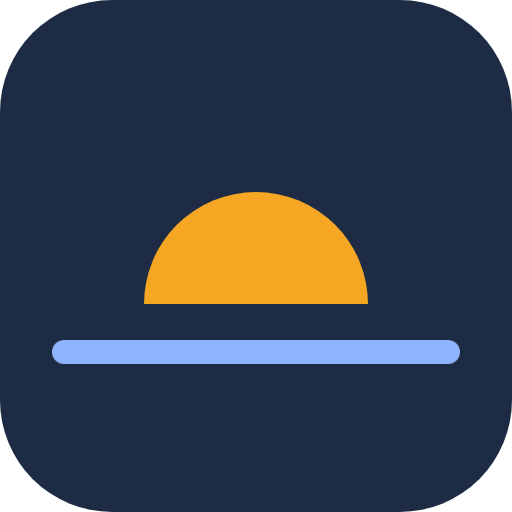
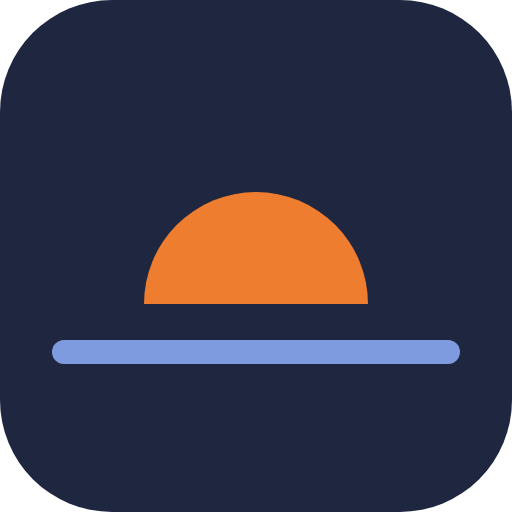
Rediseño 8/8: limpieza, iconos y documentación
Fuera la página de prueba del cielo y sus imágenes temporales. Iconos, favicon,
theme-color y colores del manifiesto con la paleta nueva (comprobados por
pwa.e2e.cjs), y presupuesto de peso de fuentes e imágenes (menos de 160 000
bytes, todas en la caché del service worker). Tras el repaso visual a 320, 360
y 390 px en claro y oscuro: el aviso de versión ya no tapa el final de la página
y el selector y el asistente comparten esquinas con el resto. Documentación al día.

Claude-Session: https://claude.ai/code/session_017PrdMnF71MdYHZ7c5GiQDs

Changed region(s): [[0.2812, 0.375, 0.7188, 0.5938], [0.0938, 0.6562, 0.9062, 0.7188]]

diff --git a/src/estilos.css b/src/estilos.css
@@ -39,7 +39,7 @@ h1, h3 { font-family: var(--display); font-weight: 400; color: var(--texto); }
 h1 { font-size: 1.6rem; margin: 0 0 4px; }
 h3 { font-size: 21px; line-height: 1.2; margin: 26px 0 12px; }
 
-.selector { background: var(--tarjeta); border: 1px solid var(--borde); border-radius: 12px; padding: 14px; margin-top: 12px; }
+.selector { background: var(--tarjeta); border: 1px solid var(--borde); border-radius: 20px; padding: 14px; margin-top: 12px; }
 .selector[hidden] { display: none; }
 .selector form { display: flex; gap: 8px; margin: 12px 0 0; }
 .selector input { flex: 1; min-width: 0; font: inherit; padding: 10px 12px; border: 1px solid var(--borde); border-radius: 8px; background: var(--fondo); color: var(--texto); }
@@ -178,7 +178,7 @@ dl.sale dd small { display: block; font-weight: 500; font-size: 14px; color: var
 .cabecera[data-cielo="noche-cubierta"] .luna-cielo { opacity: .4; }
 .consejo { margin: 14px 0 0; padding: 10px 14px; border-radius: 10px; background: var(--ambar-fondo); border-left: 6px solid var(--ambar); font-size: .95rem; }
 
-.asistente { background: var(--tarjeta); border: 2px solid var(--texto); border-radius: 16px; padding: 20px; margin: 12px 0; }
+.asistente { background: var(--tarjeta); border: 2px solid var(--texto); border-radius: 20px; padding: 20px; margin: 12px 0; }
 .asistente[hidden] { display: none; }
 .asistente h2 { font-size: 1.35rem; margin: 4px 0 8px; }
 .asistente h2:focus { outline: none; }
@@ -230,7 +230,8 @@ a { color: inherit; }
 /* Aviso de «hay una versión nueva» (service worker): fijo abajo para que se vea estés donde estés en la página.
    Todo lo que lo identifica es texto y borde del color del texto: el navegador del móvil puede oscurecer fondos y bordes. */
 .aviso-version { position: fixed; left: 12px; right: 12px; bottom: 12px; z-index: 10; max-width: 736px; margin: 0 auto; display: flex; align-items: center; justify-content: space-between; gap: 12px; padding: 10px 12px 10px 16px; border-radius: 12px; background: var(--tarjeta); color: var(--texto); border: 2px solid var(--texto); box-shadow: 0 6px 24px rgba(0, 0, 0, .25); }
-.aviso-version p { margin: 0; font-weight: 700; }
+.aviso-version p { margin: 0; font: 700 15px/1.3 var(--cuerpo); }
+main:has(.aviso-version) { padding-bottom: 130px; } /* con el aviso fijo a la vista, sitio de sobra para que no tape el final de la página */
 .aviso-version button { flex: none; font-weight: 700; background: var(--texto); color: var(--fondo); border-color: var(--texto); }
 .aviso-version button:disabled { opacity: .7; cursor: default; }
 

diff --git a/index.html b/index.html
@@ -5,8 +5,8 @@
   <meta name="viewport" content="width=device-width, initial-scale=1">
   <meta name="color-scheme" content="light dark">
   <meta name="description" content="Te dice si merece la pena salir a fotografiar el atardecer o la luna, cuándo, hacia dónde mirar y qué ajustes usar.">
-  <meta name="theme-color" content="#f6f4ef" media="(prefers-color-scheme: light)">
-  <meta name="theme-color" content="#15181c" media="(prefers-color-scheme: dark)">
+  <meta name="theme-color" content="#f3eff4" media="(prefers-color-scheme: light)">
+  <meta name="theme-color" content="#0f1626" media="(prefers-color-scheme: dark)">
   <link rel="icon" type="image/svg+xml" href="/favicon.svg">
   <link rel="apple-touch-icon" href="/apple-touch-icon.png">
   <link rel="manifest" href="/manifest.webmanifest">

diff --git a/src/App.svelte b/src/App.svelte
@@ -1,7 +1,6 @@
 <script>
   import { ruta } from "./estado/ruta.svelte.js";
   import Hoy from "./pantallas/Hoy.svelte";
-  import PruebaCielo from "./pantallas/PruebaCielo.svelte";
   import AvisoVersion from "./componentes/AvisoVersion.svelte";
 
   // El aviso solo sale en la vista previa (publicada en /beta/), no en la versión definitiva
@@ -21,8 +20,6 @@
 
   {#if ruta.actual === "hoy"}
     <Hoy />
-  {:else if ruta.actual === "prueba-cielo"}
-    <div class="pagina"><PruebaCielo /></div>
   {:else}
     <div class="pagina">
       <h1>No encuentro esa pantalla</h1>

diff --git a/docs/migracion-svelte.md b/docs/migracion-svelte.md
@@ -105,8 +105,22 @@ Tres pasos, cada uno en su commit y con su prueba de navegador sobre la versión
    - `sin-conexion.e2e.cjs` (sirve una copia de `dist/` y «publica» una versión nueva a mitad de la prueba): primera carga e instalación (se guarda todo y nada más que lo que hay), instalable según el navegador (`Page.getInstallabilityErrors` vacío), abrir sin red (con `index.html`, con `?…`, rutas internas, manifiesto e iconos), la previsión sigue yendo a Internet, el aviso aparece sin cambiar la página, recargar no actualiza, «Actualizar» cambia de versión, deja solo la caché nueva y la nueva también abre sin red. `service-worker.test.js` prueba la lista y la versión (cambia con cualquier archivo, aunque conserve el nombre). Se comprobó rompiendo a propósito el service worker (activarse solo; no guardar el manifiesto).
 3. **Última previsión guardada** (`src/nucleo/previsionGuardada.js`). Cada previsión recibida se guarda en el dispositivo (`luz-y-foto:prevision`, unos pocos kilobytes: 5,9 KB en la previsión de prueba). Si no se puede pedir una nueva (sin red, servicio caído o una respuesta ilegible), se enseña la guardada **solo si es del mismo lugar** (a menos de 2 km: el GPS no repite el punto exacto) **y de hace menos de 48 h** (la petición cubre de ayer a dentro de 4 días; pasadas dos, no cubriría lo que hay que enseñar), con un aviso fijo bajo el estado: «No he podido actualizar la previsión. Te enseño la que guardé hoy a las 14:32 (hace 3 h); puede haber cambiado.» y un botón **Reintentar**. La previsión se interpreta con la hora de ahora, no la de entonces, así que «Ahora» y «Hoy» son los de verdad. Reintenta sola al volver la conexión (`online`) y al volver a la app; al reintentar, lo que se ve se queda (pestaña, día) y, si falla otra vez, no se redibuja. Sin previsión guardada que sirva, el mensaje de error es el de siempre. Además, **una respuesta lenta de un lugar anterior ya no pisa a la de un lugar nuevo** (una carrera que ya existía y que los reintentos habrían hecho más probable). `prevision-guardada.e2e.cjs` cubre: guardado tras recibir, aviso, misma previsión que con conexión, reintento con y sin red, reintento al volver la conexión y la app, guardada de ayer / de hace 3 h, servicio caído (HTTP 500), sin nada guardado, guardada de otro lugar / demasiado vieja / rota, y la carrera (comprobado quitando la protección). `prevision-guardada.test.js` prueba lo mismo sin navegador (lugar, edad, datos rotos, almacén que falla, «hoy / ayer / el 17 de noviembre»).
 4. **Panel «Instalar la app y uso sin conexión»** (añadido el mismo día, tras probar en el móvil: Samsung Internet, Chrome y Brave no ofrecían instalar y no había manera de saber por qué). Al final de «Hoy», un panel plegable con (a) el botón **Instalar la app** cuando el navegador lo permite (`beforeinstallprompt`, `src/estado/instalacion.svelte.js`) o, si no, instrucciones del menú, y (b) un **informe de esta instalación** que se calcula en el propio dispositivo al abrirlo y se rehace solo si algo cambia: qué archivo de la app se está ejecutando (`index-XXXX.js`, cambia con cada versión del código), conexión segura, manifiesto (se descarga y se lee), iconos de 192 y 512 px (se descargan), dirección de inicio dentro del ámbito, estado del service worker con **su versión** (la pregunta al service worker, que contesta con la huella de `dist/`) y **el motivo si falló** (registro bloqueado, instalación descartada por un archivo que no se pudo bajar…), si la página la gestiona, qué hay guardado y si el navegador ha ofrecido instalar. El service worker ahora borra su caché si la instalación falla (antes dejaba una vacía). `instalacion.e2e.cjs` lo prueba: todo en orden, el botón, `appinstalled`, service workers bloqueados y un archivo que falta en el servidor.
-- **Lo que falta decidir** (no es de esta fase): el aviso de versión y el de sin conexión usan los colores actuales; con el diseño nuevo hay que repasarlos junto con `theme-color`, `background_color` del manifiesto y los iconos.
+- **Lo que faltaba decidir**: resuelto con el rediseño (ver más abajo): los avisos heredan la paleta nueva, y `theme-color`, `background_color` del manifiesto y los iconos la llevan.
 - **Listo cuando**: la app abre sin red tras la primera carga y se actualiza sola. ✔ en el navegador de pruebas (Chromium). Falta verlo en el móvil real: instalarla, abrirla en modo avión y, cuando haya una versión nueva, pulsar «Actualizar».
+
+### Rediseño «La luz de ahora» (hecho el 2026-11-21)
+Entre la fase 4 y el traspaso se rehízo el aspecto de la versión nueva (solo en `/beta/`; la web actual de la raíz no cambia). Propuesta aprobada: [`superpowers/specs/2026-11-21-la-luz-de-ahora-design.md`](superpowers/specs/2026-11-21-la-luz-de-ahora-design.md); plan: [`superpowers/plans/2026-11-21-la-luz-de-ahora.md`](superpowers/plans/2026-11-21-la-luz-de-ahora.md); resumen del diseño resultante en [`diseno.md`](diseno.md). Ocho pasos, cada uno en su commit, con su prueba de navegador y publicado en `/beta/` antes de pasar al siguiente:
+
+1. Fuentes (Young Serif y Figtree) y paleta nueva.
+2. Cabecera con cielo en imagen (cuatro cielos según pestaña y semáforo), título, hora de la previsión y lugar en una pastilla.
+3. Pestañas que montan sobre el cielo y botones de día.
+4. Veredicto grande y medidor de puntos (solo Atardecer).
+5. «La luz de hoy» (franja de la hora dorada a la azul) y brújula.
+6. Luna con su fase real (16 imágenes) en la cabecera y en el panel.
+7. El equipo vive en la receta; el lugar, en la cabecera (se disuelven las dos tarjetas).
+8. Limpieza (fuera la página de prueba del cielo), iconos y colores de la app, presupuesto de peso y repaso visual a 320, 360 y 390 px en claro y oscuro.
+
+Queda por hacer: verlo en el móvil real (modo avión, aviso «Actualizar») y en la tablet.
 
 ### Fase 5: traspaso a `master`
 

diff --git a/docs/diseno.md b/docs/diseno.md
@@ -10,6 +10,18 @@ Principiantes y aficionados sin mucha experiencia.
 - Textos, reglas y recetas en archivos de datos (`data/`), separados del código, para añadir géneros sin tocar código.
 - Honestidad: no prometer lo que el equipo o la previsión no pueden dar.
 
+## Diseño visual: «La luz de ahora» (hecho el 2026-11-21)
+Propuesta y decisiones en [`superpowers/specs/2026-11-21-la-luz-de-ahora-design.md`](superpowers/specs/2026-11-21-la-luz-de-ahora-design.md); el plan con lo que se hizo en cada paso, en [`superpowers/plans/2026-11-21-la-luz-de-ahora.md`](superpowers/plans/2026-11-21-la-luz-de-ahora.md). Idea: la cabecera es un cielo que cambia con el momento y con la previsión; debajo todo queda tranquilo y el semáforo es lo que más se ve.
+
+- **Cielo** (cabecera de 262 px): cuatro imágenes WebP (tarde, tarde cubierta, noche, noche cubierta). Manda la pestaña (Atardecer = tarde, Luna = noche; sin previsión, la hora del dispositivo) y el semáforo del día elegido (rojo = cubierto). En Luna lleva además la luna de esa noche con su **fase real** (16 imágenes; al revés en el hemisferio sur; apagada si la noche está cubierta). `src/nucleo/cielo.js` decide cuál; `scripts/generar-cielos.mjs` las dibuja.
+- **Tipografía**: Young Serif para el título, los títulos de sección, el veredicto y el nombre de la fase de la luna; Figtree (variable) para todo lo demás. Las dos van dentro de la app (`src/fuentes/`, con su licencia) y en la caché del service worker.
+- **Paleta** (claro / oscuro; los nombres están en `src/estilos.css`): fondo `#f3eff4` / `#0f1626`, tarjeta `#ffffff` / `#18213a`, texto `#1f2740` / `#ecebf5`; verde `#1b7a47` / `#78d9a3`, ámbar `#8f5a00` (símbolo `#b06b00`) / `#f5c867`, rojo `#a9362f` / `#f7a199`, gris `#59607f` / `#a8afcb`. Para la franja de luz: oro, sol, violeta y azul de la hora azul. Los pares de colores de texto y fondo cumplen 4,5:1 (lo comprueba `paleta.e2e.cjs`); los símbolos, 3:1.
+- **Cuatro detalles**: el cielo reacciona a la previsión; «La luz de hoy» (franja de la hora dorada a la hora azul, con la puesta y un «●» donde estás ahora); el medidor de puntos, solo en Atardecer (la luna no puntúa); y la luna de la cabecera con su fase real.
+- **Lugar y equipo sin tarjeta propia**: el lugar es una pastilla en la cabecera (abre el selector debajo); el equipo vive en la receta (el resumen debajo del título y «Editar mi equipo» dentro) o, sin configurar, en una invitación con un único botón.
+- **Restricción del modo oscuro forzado** (hay navegadores de móvil, como el que se probó en Android, que oscurecen las webs por su cuenta aplastando fondos, bordes, degradados y SVG en línea): **ninguna información depende de un fondo, un borde, un degradado o un dibujo en SVG**. Los símbolos del semáforo (●▲■○) y la ✓ son texto con el color del nivel; las barras (capas de nubes, medidor de puntos) y la franja de luz son bloques «█» de texto cuyo color es el del texto; el cielo y las fases de la luna son imágenes (no se oscurecen). Los fondos y los bordes son solo adorno. Además, `color-scheme: light dark` avisa al navegador de que la web ya tiene tema oscuro.
+- **Peso**: fuentes e imágenes suman menos de 160 000 bytes y todas van en la caché del service worker (lo comprueba `pwa.e2e.cjs`).
+- **Iconos y colores de la app**: fondo `#1f2740`, sol `#ee7d2f`, horizonte `#7f9be0`; `theme-color` y `background_color` del manifiesto, `#f3eff4` (claro) y `#0f1626` (oscuro).
+
 ## Primer arranque
 1. Bienvenida (con "Importar copia" si no hay datos).
 2. Perfil corto, una pregunta por pantalla, con "Saltar" y editable siempre:
@@ -49,8 +61,10 @@ Fuentes de datos (SunCalc en el dispositivo, Open-Meteo, ubicación del navegado
 ## Pendiente
 Hecho: perfil de equipo y recetas (`data/perfil.json`, `data/recetas/`).
 
-Pendiente (anotado 2026-11-20): **revisar que sea responsive**. En un móvil (captura del usuario, navegador en modo oscuro) la tabla «Horas analizadas» se sale de la tarjeta y la página se desplaza en horizontal; las barras de «Capas de nubes» casi no se ven en oscuro. Probar anchos de 320, 360 y 390 px, y modo claro y oscuro.
+Hecho (2026-11-21, con el rediseño): lo de ser responsive que se anotó el 2026-11-20. Las pruebas de maquetación de la versión compilada recorren 320, 360 y 390 px, en claro y oscuro, con la letra del sistema y con una ancha; las tablas largas se reordenan en tarjetas y las barras llevan el color también como texto.
 
 Hecho en la versión nueva (fase 4 de la migración): manifiesto e iconos, service worker con la app en caché, aviso «hay una versión nueva» y última previsión guardada sin conexión (ver [`migracion-svelte.md`](migracion-svelte.md)).
 
-Pendiente: tutorial de la rueda de modos, exportar/importar copia, glosario como página, lugares guardados, diseño visual definitivo (daltonismo, modo oscuro).
+Hecho: diseño visual definitivo «La luz de ahora» (ver arriba; falta probarlo en el móvil real y en la tablet).
+
+Pendiente: tutorial de la rueda de modos, exportar/importar copia, glosario como página, lugares guardados, daltonismo (hoy el semáforo ya no depende solo del color: lleva símbolo y palabra, pero falta probarlo con un simulador).

diff --git a/README.md b/README.md
@@ -32,6 +32,7 @@ npm run test:navegador  la versión compilada en el navegador (necesita el naveg
 npm run test:todo   lógica + navegador (web actual y versión compilada)
 npm run build       compila en dist/ (valida data/ antes; si hay un error, no genera nada) y escribe dist/sw.js (el service worker)
 node scripts/generar-iconos.mjs   vuelve a generar los iconos de public/ (solo si cambia el dibujo o los colores)
+node scripts/generar-cielos.mjs   vuelve a generar los cielos de la cabecera y las 16 fases de la luna de src/imagenes/ (solo si cambia algún dibujo de scripts/escenas-cielo.mjs)
 ```
 
 La web actual (`prueba/`, `js/`) no necesita instalar nada: se abre sirviendo la carpeta.
